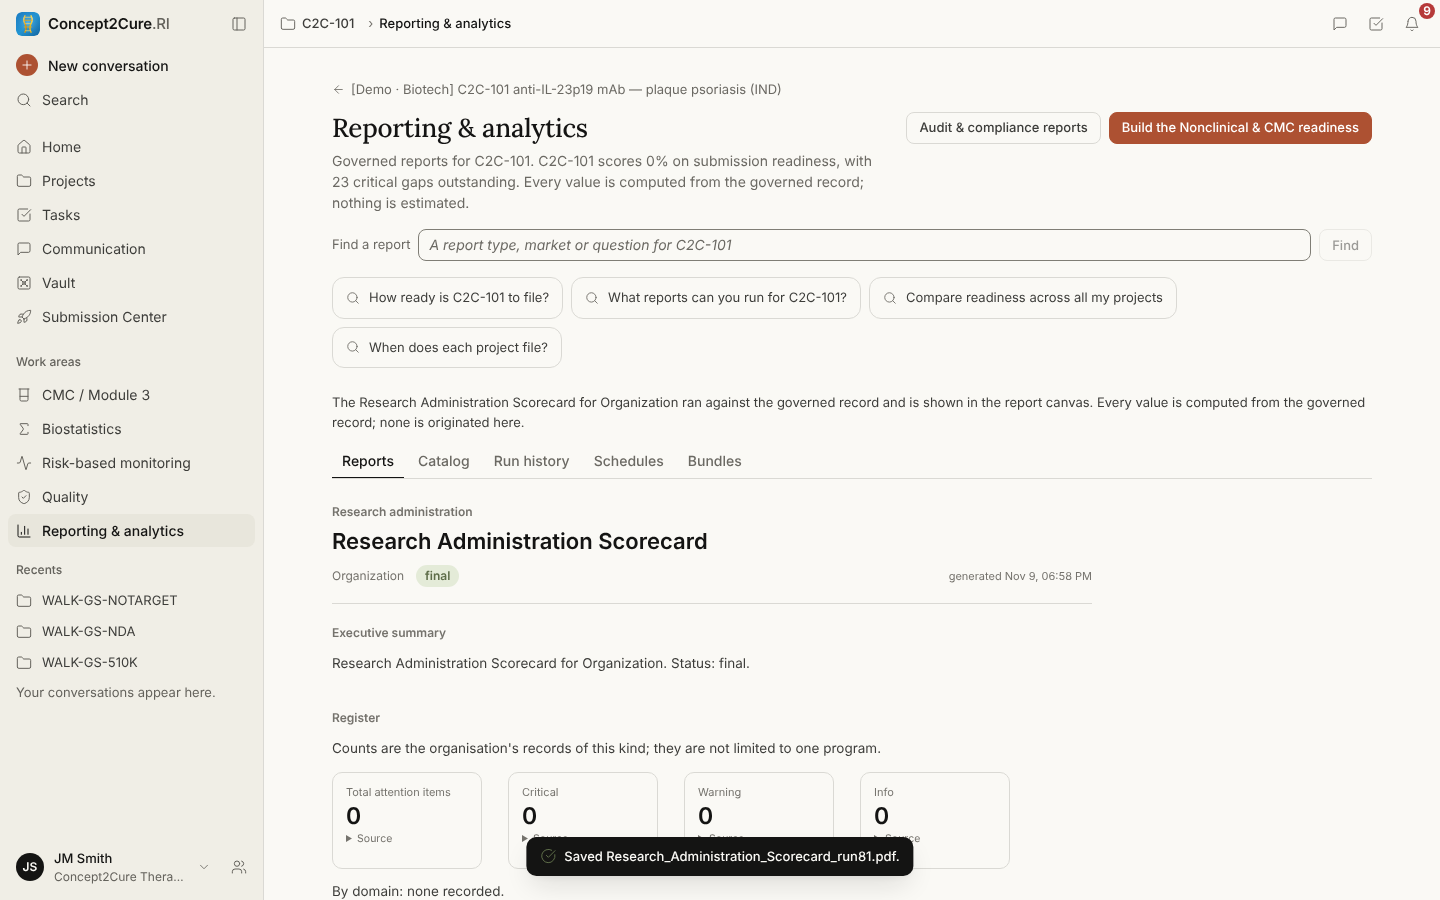
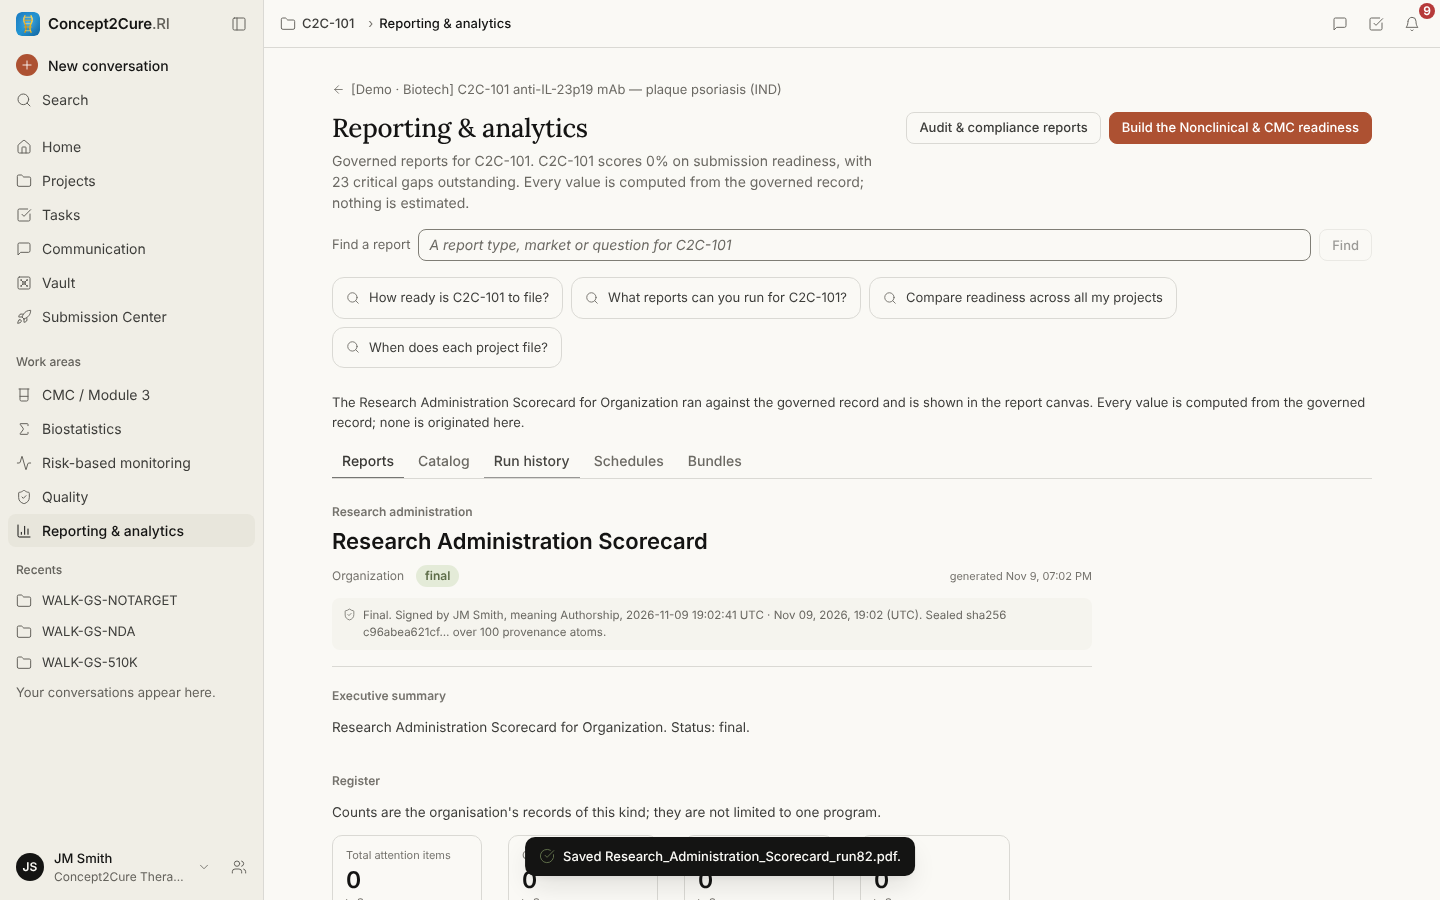
D7 evidence: the reopened sealed run shows its seal line, re-walked
The finalize-ok section's recorded difference is fixed in e8e3c63093.
Re-walked at that commit on run 82: the line shown on reopening from Run
history is identical to the one shown at signing. The screenshot and
probes are replaced.

Plan: D7
Completes: client/src/concept2cure/v2/surfaces/Insights.tsx

Claude-Session: https://claude.ai/code/session_011HLkYCajohxJ4HxpcfSiU6

Changed region(s): [[0.2188, 0.6222, 0.75, 0.9956]]

diff --git a/docs/evidence/DESIGN/D7/2026-11-09-reporting-use-walk/README.md b/docs/evidence/DESIGN/D7/2026-11-09-reporting-use-walk/README.md
@@ -69,7 +69,7 @@ saying why:
 
 Only the **Research Administration Scorecard** can be finalized.
 
-Walked at the head (`0e5706a308`) with `scripts/finalize-ok.cjs` and `scripts/reopen-seal.cjs`, as the demo user with
+Walked at `0e5706a308`, and again at `e8e3c63093`, with `scripts/finalize-ok.cjs` and `scripts/reopen-seal.cjs`, as the demo user with
 the demo password:
 - **Before signing**, the report offers "Export PDF" and "Finalize…".
 - **The dialog** offers the meanings Authorship, Approval and Responsibility, and takes the reason and the password.
@@ -86,9 +86,11 @@ the demo password:
   It names the signer, time, meaning and reason. No audit HMAC key is configured here, and the section says so.
 - No script errors, and no 4xx or 5xx.
 
-**One difference, not fixed here.** Right after signing, the seal line sits under the report. A reopened sealed run
-shows the same facts only inside the "Seal, signature and sources" section, which is closed until opened. The PDF
-carries the line either way.
+**Fixed after the first finalize walk:** a reopened sealed run showed its signature only inside the closed seal
+section, while right after signing the line sat under the report. Since `e8e3c63093` (D7), reopening reads the seal
+back and shows the same line when the seal verifies, and shows no line when it does not. Re-walked at `e8e3c63093` on
+run 82: the reopened line is identical to the one shown at signing (`finalize-ok/finalize-ok-reopened-1440.png`,
+`finalize-ok-probes.json`).
 
 ## Pre-deploy step, production: required before `deploy-migrate` runs at `22256c6750` or later
 
